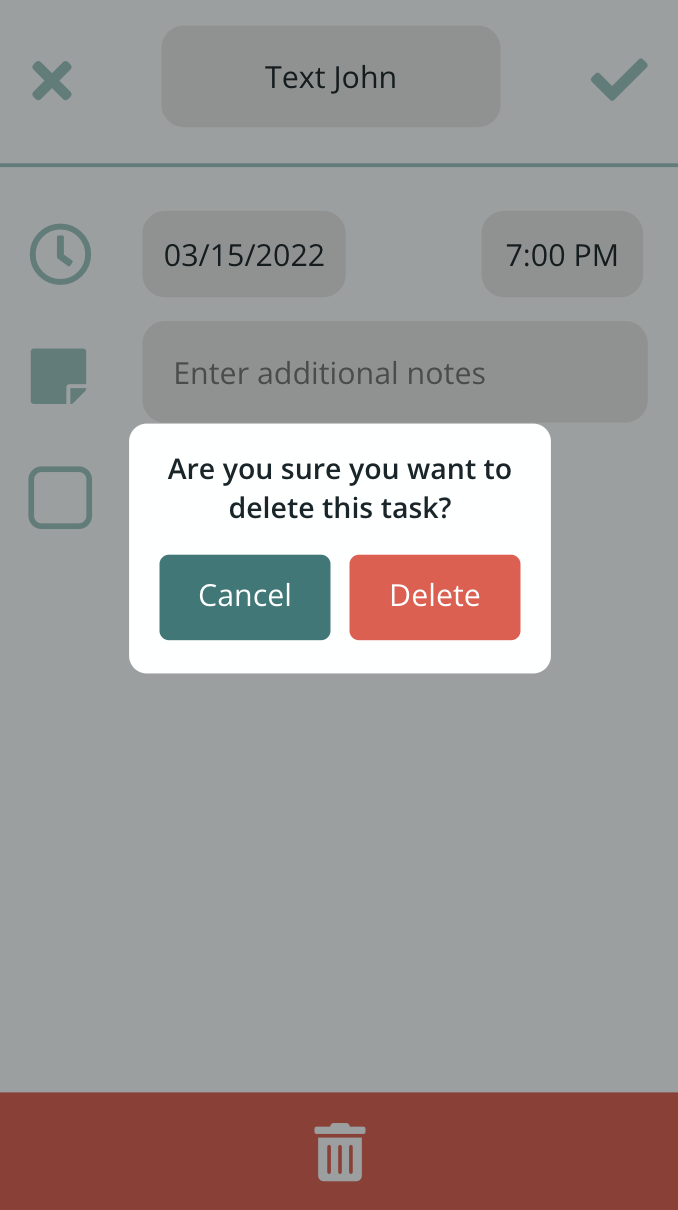
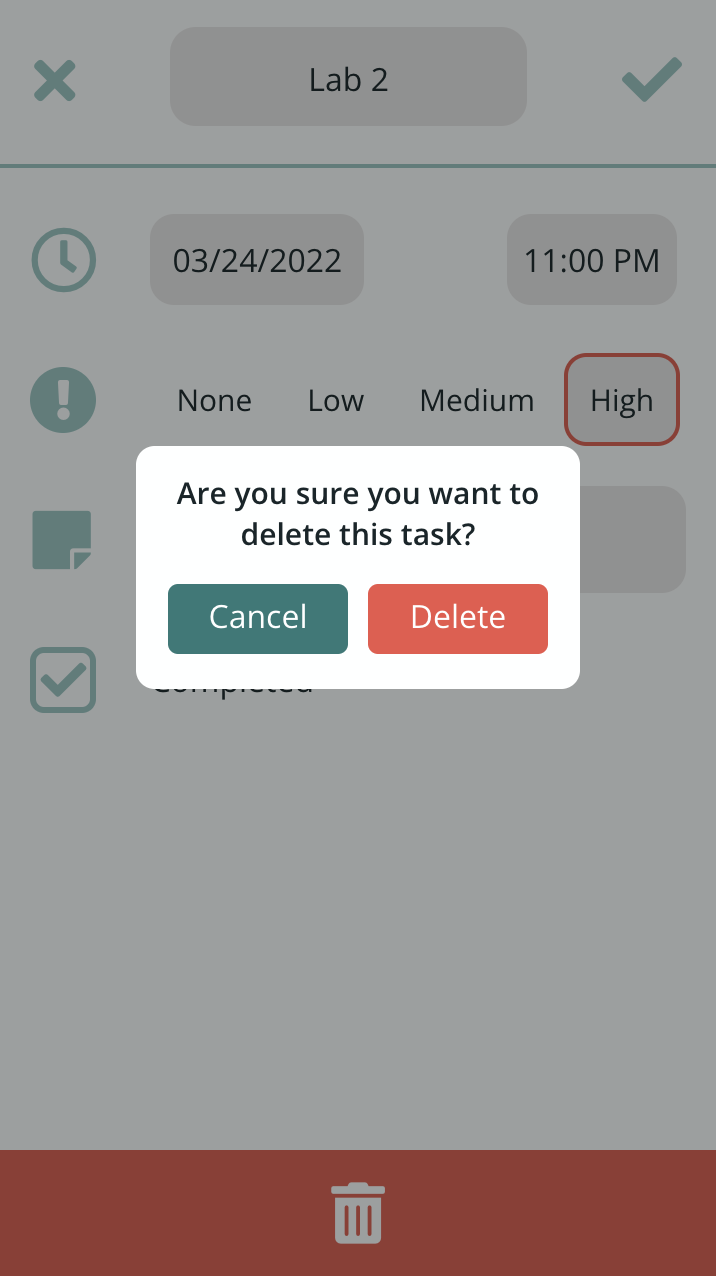
Preliminary updates to design doc (prioirity, no list/task messages, errors)

diff --git a/design/design.md b/design/design.md
@@ -32,6 +32,11 @@ In Lab 2, we also decided to add a deeper shadow to a task card when it has its 
 
 <img src="home_page_edit_icons_final_lab_2.png" alt="Home Page Edit Icons Lab 2 Final Version" width="200px">
 
+In Lab 3, we added a message that appears on the Home Page when no lists are present. We saw this idea in the grading rubric for Lab 2 and thought it would be informative and useful for our users, since they can quickly see whether or not they have lists. In user testing, participants also said they'd like to have a message like this when there are no lists present.
+
+<img src="home_page_no_lists_lab_3.png" alt="Home Page Without Lists Lab 3" width="200px">
+
+
 ## Final App: Create List Page / Edit List Page
 
 When a user taps the plus button on the Home Page, they will be brought to the Create List Page, where they can enter a list name into the input box in the top navigation bar, and also select an icon to represent their list. We wanted to give users a way to customize the appearances of their lists to their liking. The X icon cancels the action of creating a new list, while the checkmark icon saves the newly created list. This is similar to behavior seen in apps such as Google Calendar, when users edit Calendar Events on mobile devices. The checkmark icon is only enabled after the user has named their list and given it a representative icon.
@@ -56,7 +61,9 @@ Another Lab 2 change we made was to place completed tasks at the bottom of the l
 
 For Lab 2, we also restyled our checkboxes so that they would better cohere with the aesthetics (in particular, the color scheme) of our app.
 
-In Lab 3, to better distinguish completed tasks from tasks to be done, we grayed-out completed tasks. We also added a header for "Completed" tasks.
+In Lab 3, to better distinguish completed tasks from tasks to be done, we grayed-out completed tasks. We also added a header for "Completed" tasks. Apps like Microsoft's To Do app separate completed tasks from incomplete tasks, and we thought this would be useful for our app. The "Completed" header only appears when the list has completed tasks.
+
+We also restyled checkboxes to match the color of the corresponding task's priority. This choice was based on researching how other apps (Todoist, Microsoft's To Do app, Apple's Reminders app) style checkboxes.
 
 <img src="single_list_page_final_lab_3.png" alt="Single List Page Lab 3 Final Version" width="200px">
 
@@ -90,6 +97,16 @@ Here are what the Single List Page looks like using the other sorting methods: d
 
 <img src="single_list_page_sort_by_modification_time_final_lab_3.png" alt="Single List Page Sort By Modification Time Lab 3 Final Version" width="200px">
 
+In Lab 3, we also added a message when no tasks are present or when all tasks are completed. When a list has no task, the message "No Tasks" will appear on the list page. In user testing, participants said they'd like to have messages like these.
+
+<img src="single_list_page_no_tasks_lab_3.png" alt="Single List Page No Tasks" width="200px">
+
+When a list has completed tasks but no incomplete tasks, a message will appear that confims the user has completed all their tasks.
+
+<img src="single_list_page_no_incomplete_tasks_lab_3.png" alt="Single List Page No Tasks" width="200px">
+
+
+
 ## Final App: View Task Page
 
 When a user taps the card for a task on the Single List Page, they are brought to the View Task Page, where they can view more details about that task, such as additional notes, which aren't visible on the Single List Page of all tasks.
@@ -100,7 +117,9 @@ In Lab 1, we had an X icon for returning to the Single List Page from the View T
 
 Also, in Lab 1, we had a checkbox icon indicating the completion status of the task open in the View Task Page. However, during user testing, we observed that many users actually attempted to use that View Task Page checkbox icon to edit the status of their task. That was problematic because the checkbox is disabled on the View Task Page; a user isn't supposed to edit their task while on this page. So, to reduce confusion, for Lab 2, we decided to change the View Task Page task completion status icon into icons that are used solely on this View Task Page.
 
-<img src="view_task_page_final_lab_2.png" alt="View Task Page Lab 2 Final Version" width="200px">
+In Lab 3, we added priorities for each task. In the View Task Page, the prioirity of their task is stated next to the exclamation icon.
+
+<img src="view_task_page_final_lab_3.png" alt="View Task Page Lab 3 Final Version" width="200px">
 
 ## Final App: Edit Task Page
 
@@ -115,6 +134,11 @@ Tapping on the date field opens up a date picker. The user can either click or s
 Tapping on the time field opens up a time picker. The user can either click or swipe (click and drag on a laptop) to move their desired hour, minute, or period (AM / PM) into the selected area. Initially, we only allowed for the swiping motion for scrolling through the time picker. However, during user testing, the go-to action for some of our users was to click their desired hour / minute / period (AM / PM), rather than to scroll. This may have been because we did user testing on a laptop instead of a phone. Regardless, we decided to implement the additional onClick event to allow for users who default to a click action, rather than a scroll action. The time picker was a new part of our UI design introduced for Lab 2.
 
 <img src="edit_task_page_final_lab_2_time_picker.png" alt="Edit Task Page Lab 2 Final Version Time Picker" width="200px">
+
+In Lab 3, we added the option to include a priority with each task. To change the priority for a task, the user can tap the approriate priority level. The selected level will be outlined in the color corresponding to the priority as an additional visual cue of the priority. 
+
+<img src="edit_task_page_select_priority_lab_3.png" alt="Edit Task Page Lab 3 Select Priority" width="200px">
+
 
 ## Final App: Delete Pop-Up Confirmation Messages
 
@@ -131,6 +155,16 @@ For Lab 2, we introduced confirmation messages that would pop up when a user cli
 <img src="alert_single_list_page_menu_mode_delete_list.png" alt="Single List Page Menu Mode Delete List Alert Lab 2 Final Version" width="200px">
 
 <img src="alert_edit_task_page_delete_task.png" alt="Edit Task Page Delete Task Alert Lab 2 Final Version" width="200px">
+
+## Final App: Error Pop-Up Message
+
+For Lab 3, we introduced an error pop-up message whenever Firebase reports an error loading list data. The user then has the opportunity to report the error. If they press the report button, we will log the error in our database, and the user will be notified that their error was reported.
+
+<img src="error_message_before_submitting_lab_3.png" alt="Error Message Before Submitting" width="200px">
+
+<img src="error_message_after_submitting_lab_3.png" alt="Error Message After Submitting" width="200px">
+
+
 
 ## Alternate Designs: Home Page and Single List Page Initial Brainstorming
 
@@ -221,6 +255,10 @@ This is the version of our View Task Page that we turned in for Lab 1. For Lab 2
 In Lab 1, we also had a checkbox icon indicating the task completion status. However, this confused many user testing participants into thinking that clicking the checkbox would actually modify the task completion status, and that wasn't the case. So, for Lab 2, we changed the View Task Page task completion status icon into icons that are used only on the View Task Page.
 
 <img src="view_task_page_final_lab_1.png" alt="View Task Page Lab 1 Final Version" width="200px">
+
+Below is the View Task Page we turned in for Lab 2. In Lab 3, we added task priority as an additional field for each task.
+
+<img src="view_task_page_final_lab_2.png" alt="View Task Page Lab 3 Final Version" width="200px">
 
 ## Alternate Designs: Edit Task Page
 
